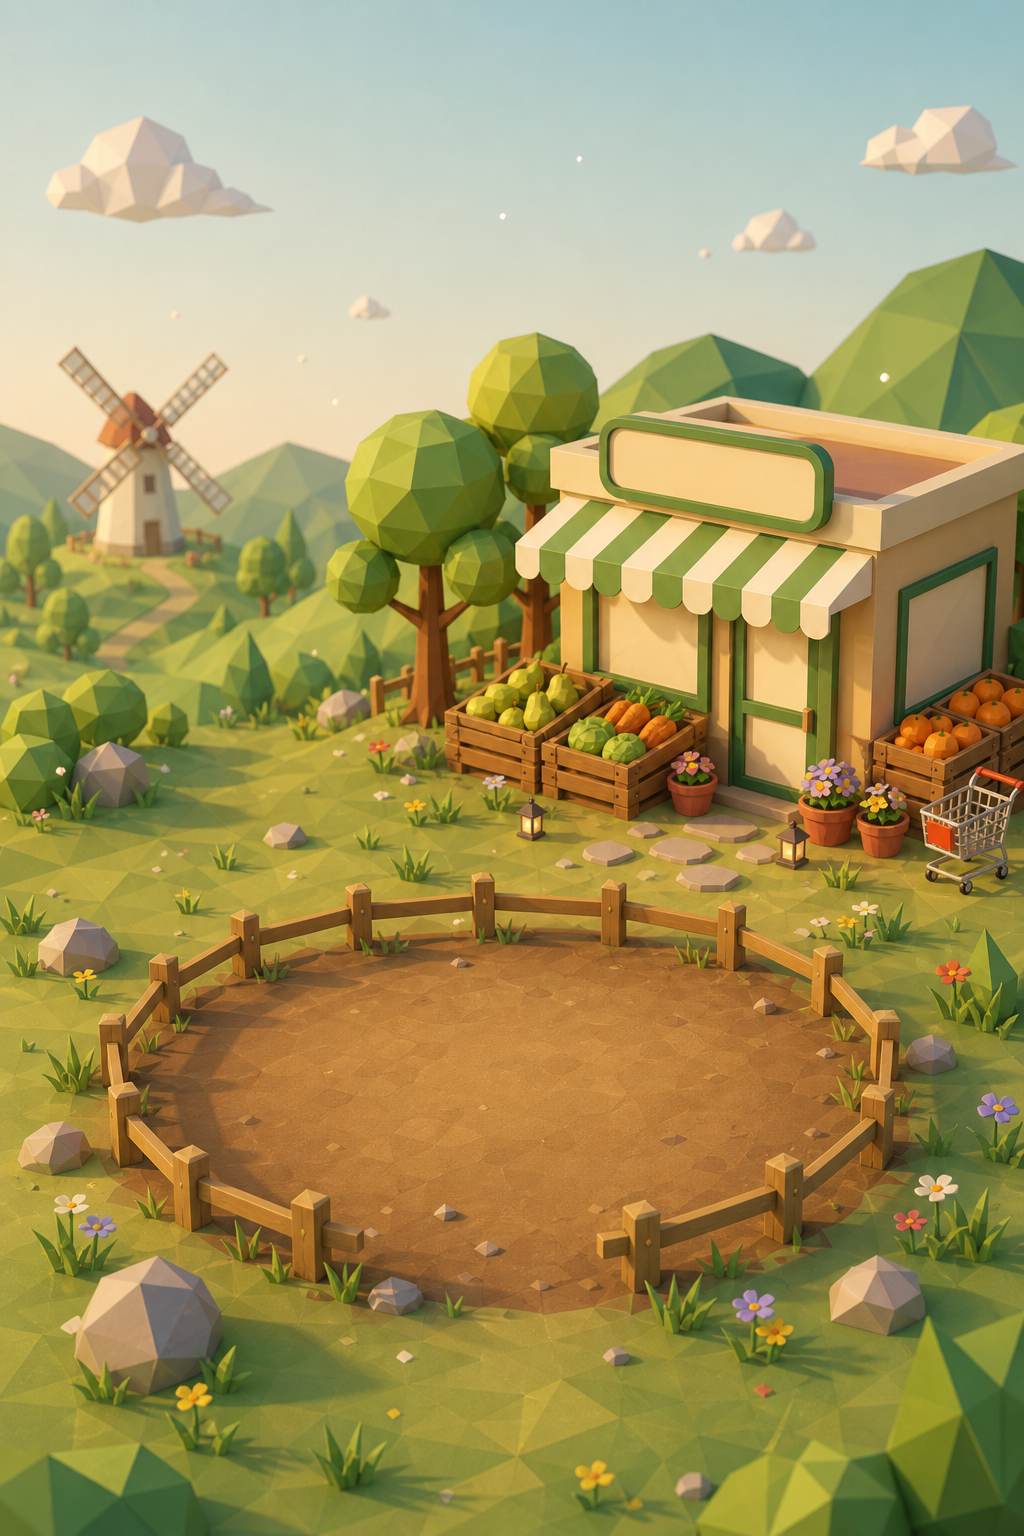
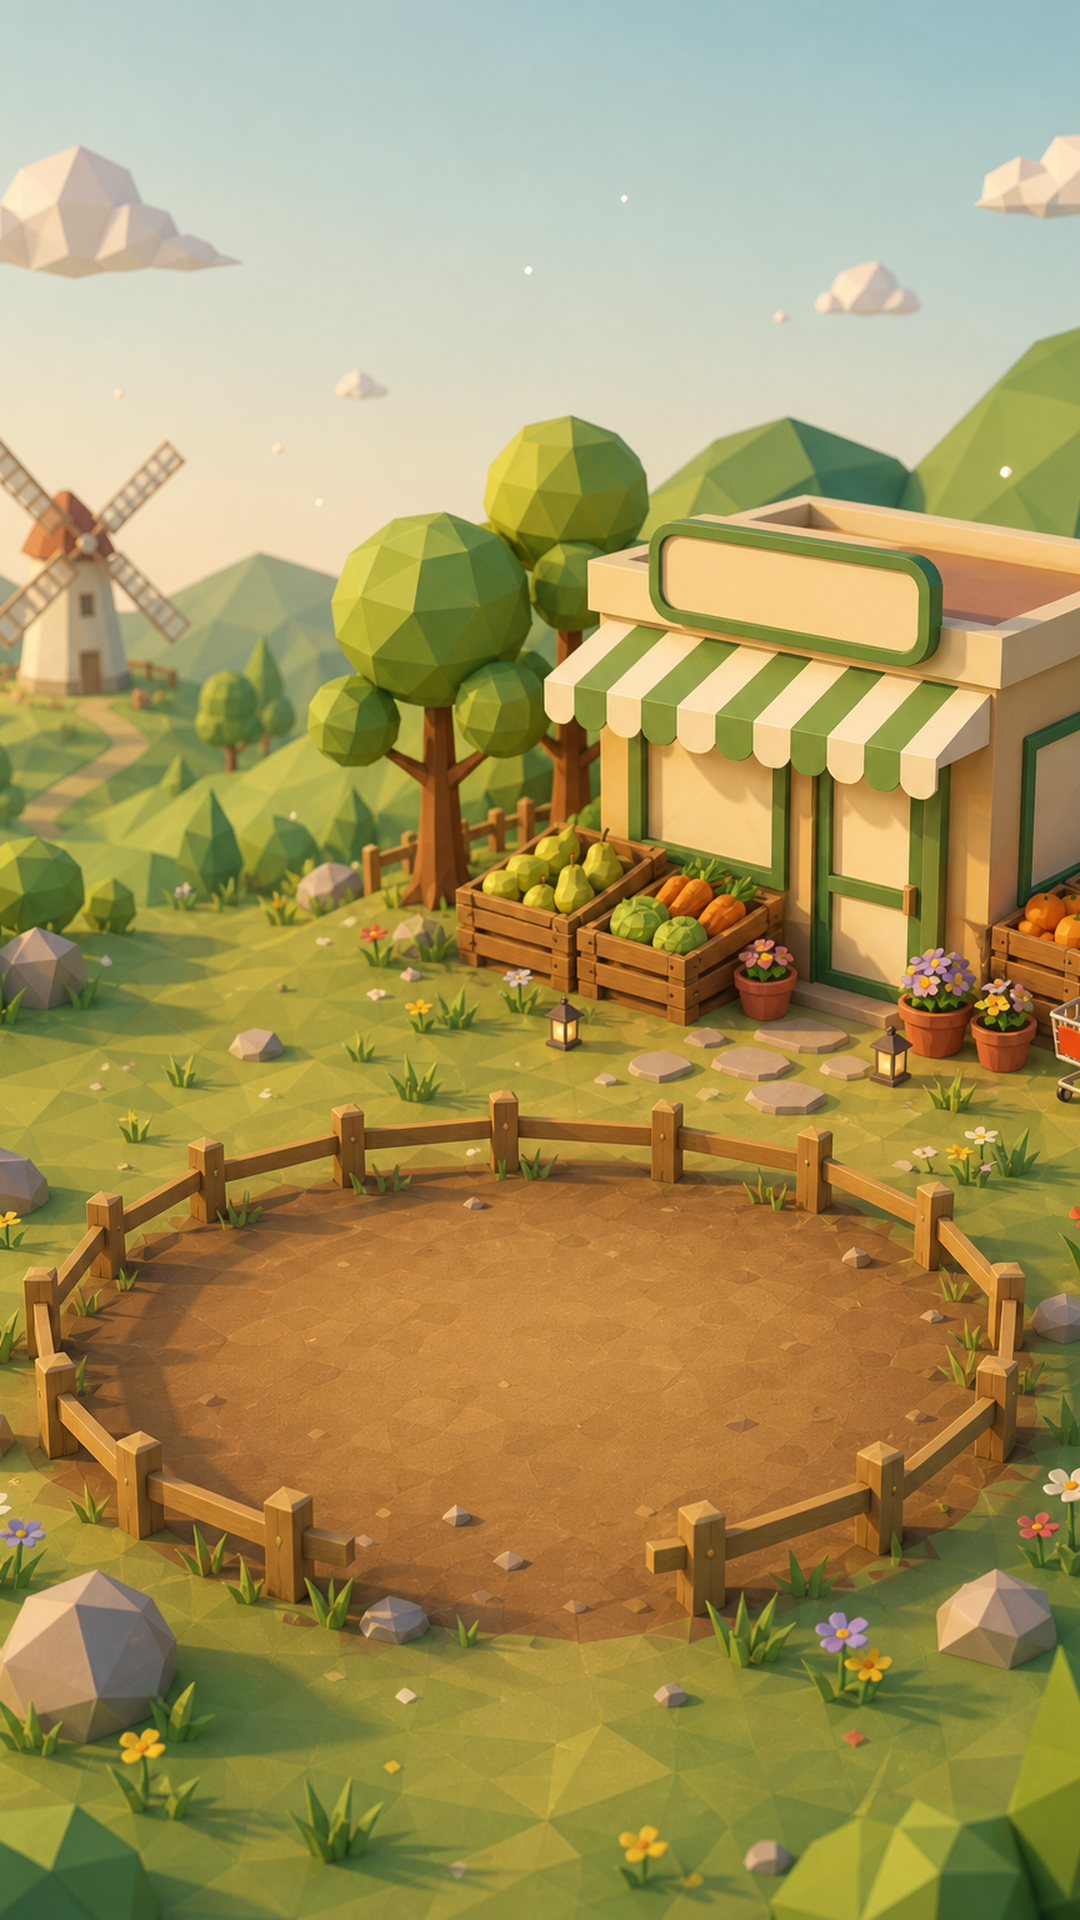
feat: enhance image processing and game rendering for HiDPI support
- Added a new function to crop images to a 9:16 aspect ratio and resize for HiDPI displays.
- Updated background image processing to optimize for 1080x1920 resolution.
- Modified game configuration to support WebGL rendering and improved scaling for device pixel ratios.
- Adjusted CSS to allow Phaser to manage canvas sizing without forcing 100% dimensions.
- Enhanced the GardenScene to utilize the new background image format and settings.

diff --git a/src/main.ts b/src/main.ts
@@ -35,15 +35,27 @@ try {
   // без шрифта тоже работаем
 }
 
+// HiDPI: рендерим в devicePixelRatio (до 3×), координаты сцен остаются 360×640
+const dpr = Math.min(Math.max(window.devicePixelRatio || 1, 1), 3);
+
 const game = new Phaser.Game({
-  type: Phaser.AUTO,
+  type: Phaser.WEBGL,
   parent: 'game-root',
   width: 360,
   height: 640,
   backgroundColor: '#87ceeb',
+  antialias: true,
+  roundPixels: false,
   scale: {
     mode: Phaser.Scale.FIT,
     autoCenter: Phaser.Scale.CENTER_BOTH,
+    zoom: dpr,
+  },
+  render: {
+    antialias: true,
+    roundPixels: false,
+    powerPreference: 'high-performance',
+    mipmapFilter: 'LINEAR_MIPMAP_LINEAR',
   },
   scene: [BootScene, GardenScene, WheelScene],
 });

diff --git a/src/game/GardenScene.ts b/src/game/GardenScene.ts
@@ -41,8 +41,11 @@ export class GardenScene extends Phaser.Scene {
     const { store, theme } = getApp();
     const p = theme.assetPrefix;
 
+    // Фон уже в 9:16 (1080×1920) — равномерный scale без искажений
     const bg = this.add.image(0, 0, `${p}-bg`).setOrigin(0);
     bg.setDisplaySize(360, 640);
+    bg.setScrollFactor(0);
+    bg.texture.setFilter(Phaser.Textures.FilterMode.LINEAR);
 
     this.tree = this.add
       .image(TREE_X, TREE_Y, `tree-${store.state.tree.fruit}-${store.state.tree.stage}`)

diff --git a/src/style.css b/src/style.css
@@ -62,8 +62,8 @@ body {
 
 #game-root canvas {
   display: block;
-  width: 100% !important;
-  height: 100% !important;
+  /* Не форсим 100% — Phaser сам выставляет CSS-размер под FIT+HiDPI */
+  image-rendering: auto;
 }
 
 #ui-root {

diff --git a/scripts/process_art.py b/scripts/process_art.py
@@ -131,10 +131,32 @@ def process_fruits(path: Path):
         print(f'  {prefix}/fruit.png {sprite.size}')
 
 
+def crop_to_aspect(im: Image.Image, aspect: float) -> Image.Image:
+    """Центральный кроп под нужное соотношение сторон (ширина/высота)."""
+    w, h = im.size
+    current = w / h
+    if abs(current - aspect) < 0.001:
+        return im
+    if current > aspect:
+        # слишком широкий — обрезаем по бокам
+        new_w = max(1, int(round(h * aspect)))
+        left = (w - new_w) // 2
+        return im.crop((left, 0, left + new_w, h))
+    # слишком высокий — обрезаем сверху/снизу, чуть смещаем вниз (грядка важнее неба)
+    new_h = max(1, int(round(w / aspect)))
+    top = max(0, int((h - new_h) * 0.35))
+    if top + new_h > h:
+        top = h - new_h
+    return im.crop((0, top, w, top + new_h))
+
+
 def process_bg(path: Path, prefix: str):
+    """Кроп в 9:16 (игровой вьюпорт) и ресайз до 1080×1920 (3×) для HiDPI."""
     (OUT / prefix).mkdir(parents=True, exist_ok=True)
-    Image.open(path).convert('RGB').save(OUT / prefix / 'bg.png', optimize=True)
-    print(f'{prefix}/bg.png ok')
+    im = crop_to_aspect(Image.open(path).convert('RGB'), 9 / 16)
+    im = im.resize((1080, 1920), Image.LANCZOS)
+    im.save(OUT / prefix / 'bg.png', optimize=True)
+    print(f'{prefix}/bg.png {im.size} ok')
 
 
 def process_common(path: Path):
